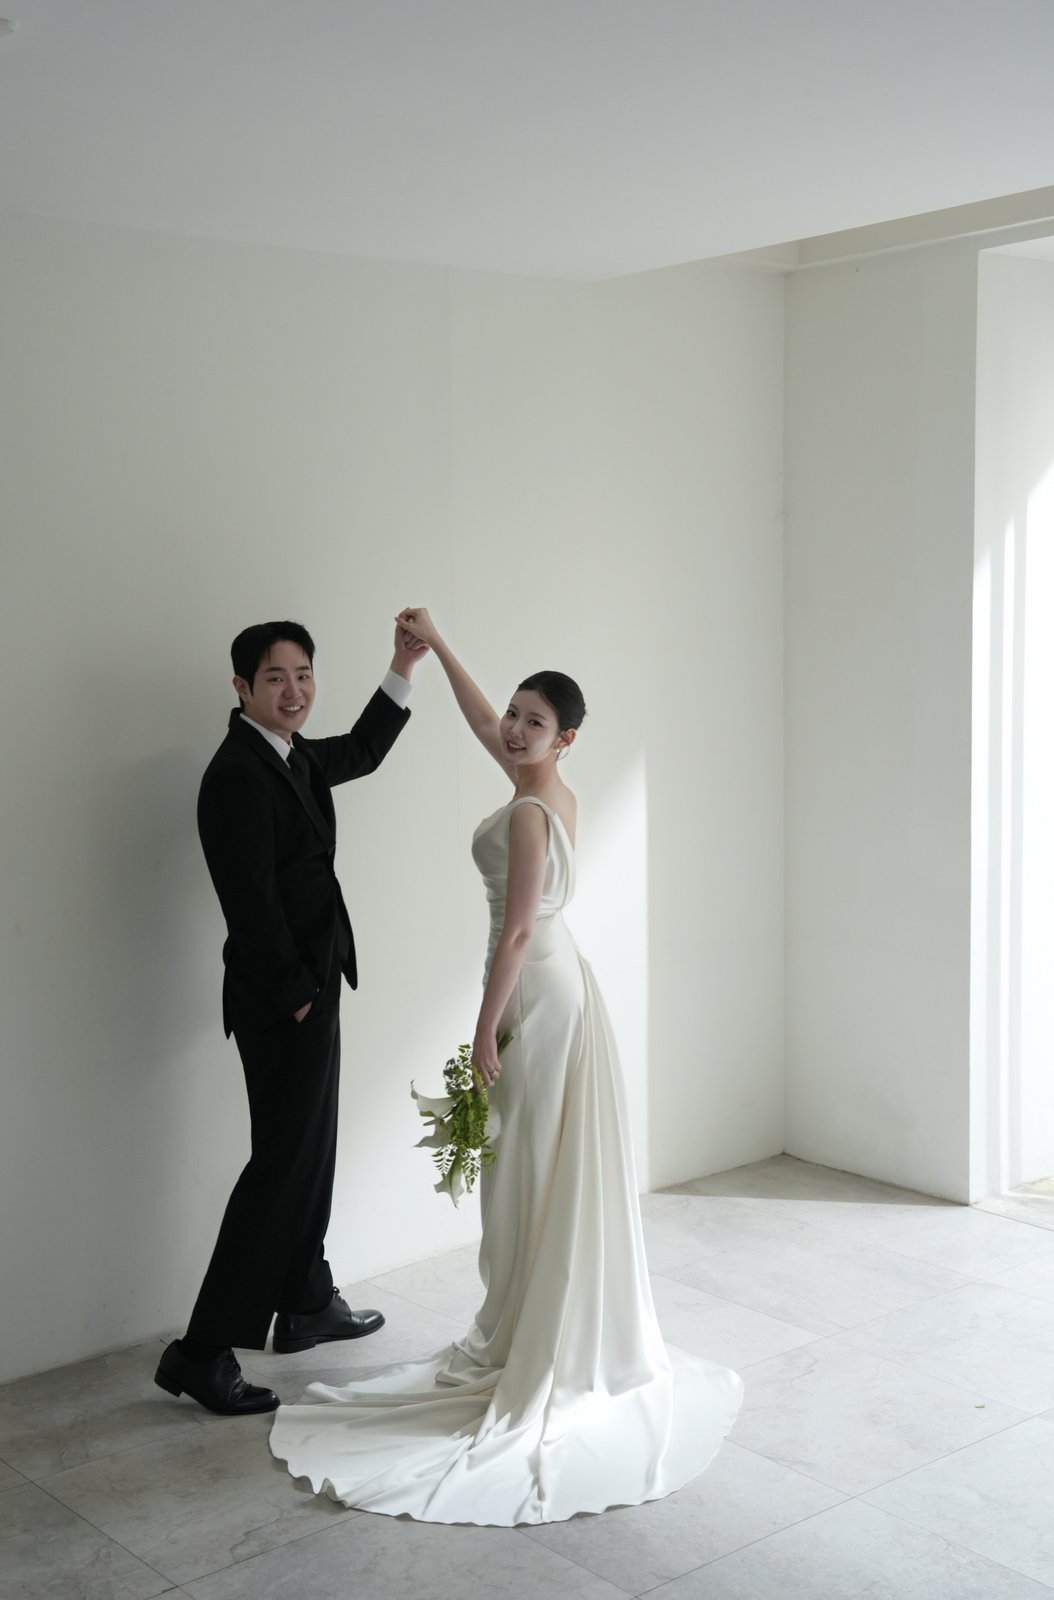
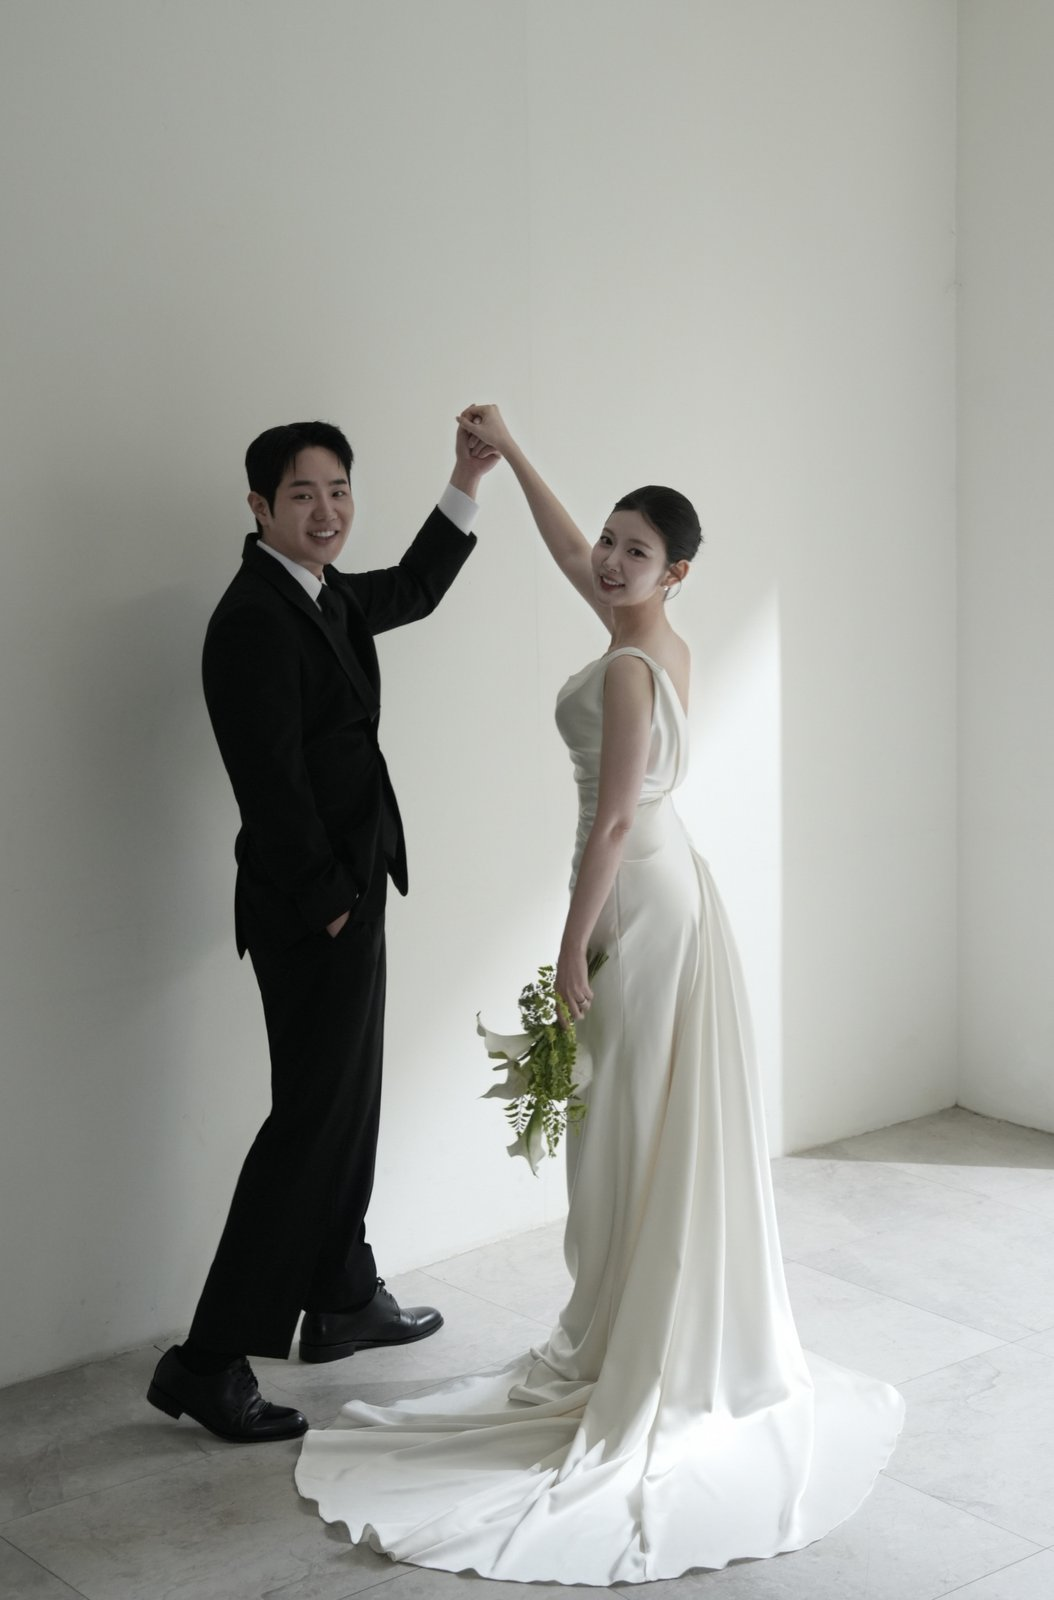
feat: 여자친구 크롭본으로 7장 교체 + 1장 추가 (갤러리 48장)
- 교체: #17(핑크앉음) #23(레이스볼드레스) #31/#33(Save The Date) #35(라운드소파) #39(댄스) #43(검정소파)
- 추가: #48 핑크드레스 서서 손잡은 커튼 컷
- 내가 이전에 잘못 크롭한 것들을 신부 크롭본으로 대체

diff --git a/index.html b/index.html
@@ -1174,7 +1174,7 @@
       </div>
 
       <button class="gallery-more" id="galleryMoreBtn" onclick="toggleGallery()">
-        사진 더보기 (47장) ▼
+        사진 더보기 (48장) ▼
       </button>
     </div>
   </section>
@@ -1540,7 +1540,7 @@
 
 <script>
   /* ──────── 갤러리 자동 생성 ──────── */
-  const GALLERY_COUNT = 47;
+  const GALLERY_COUNT = 48;
   (function buildGallery() {
     const grid = document.getElementById('galleryGrid');
     let html = '';
